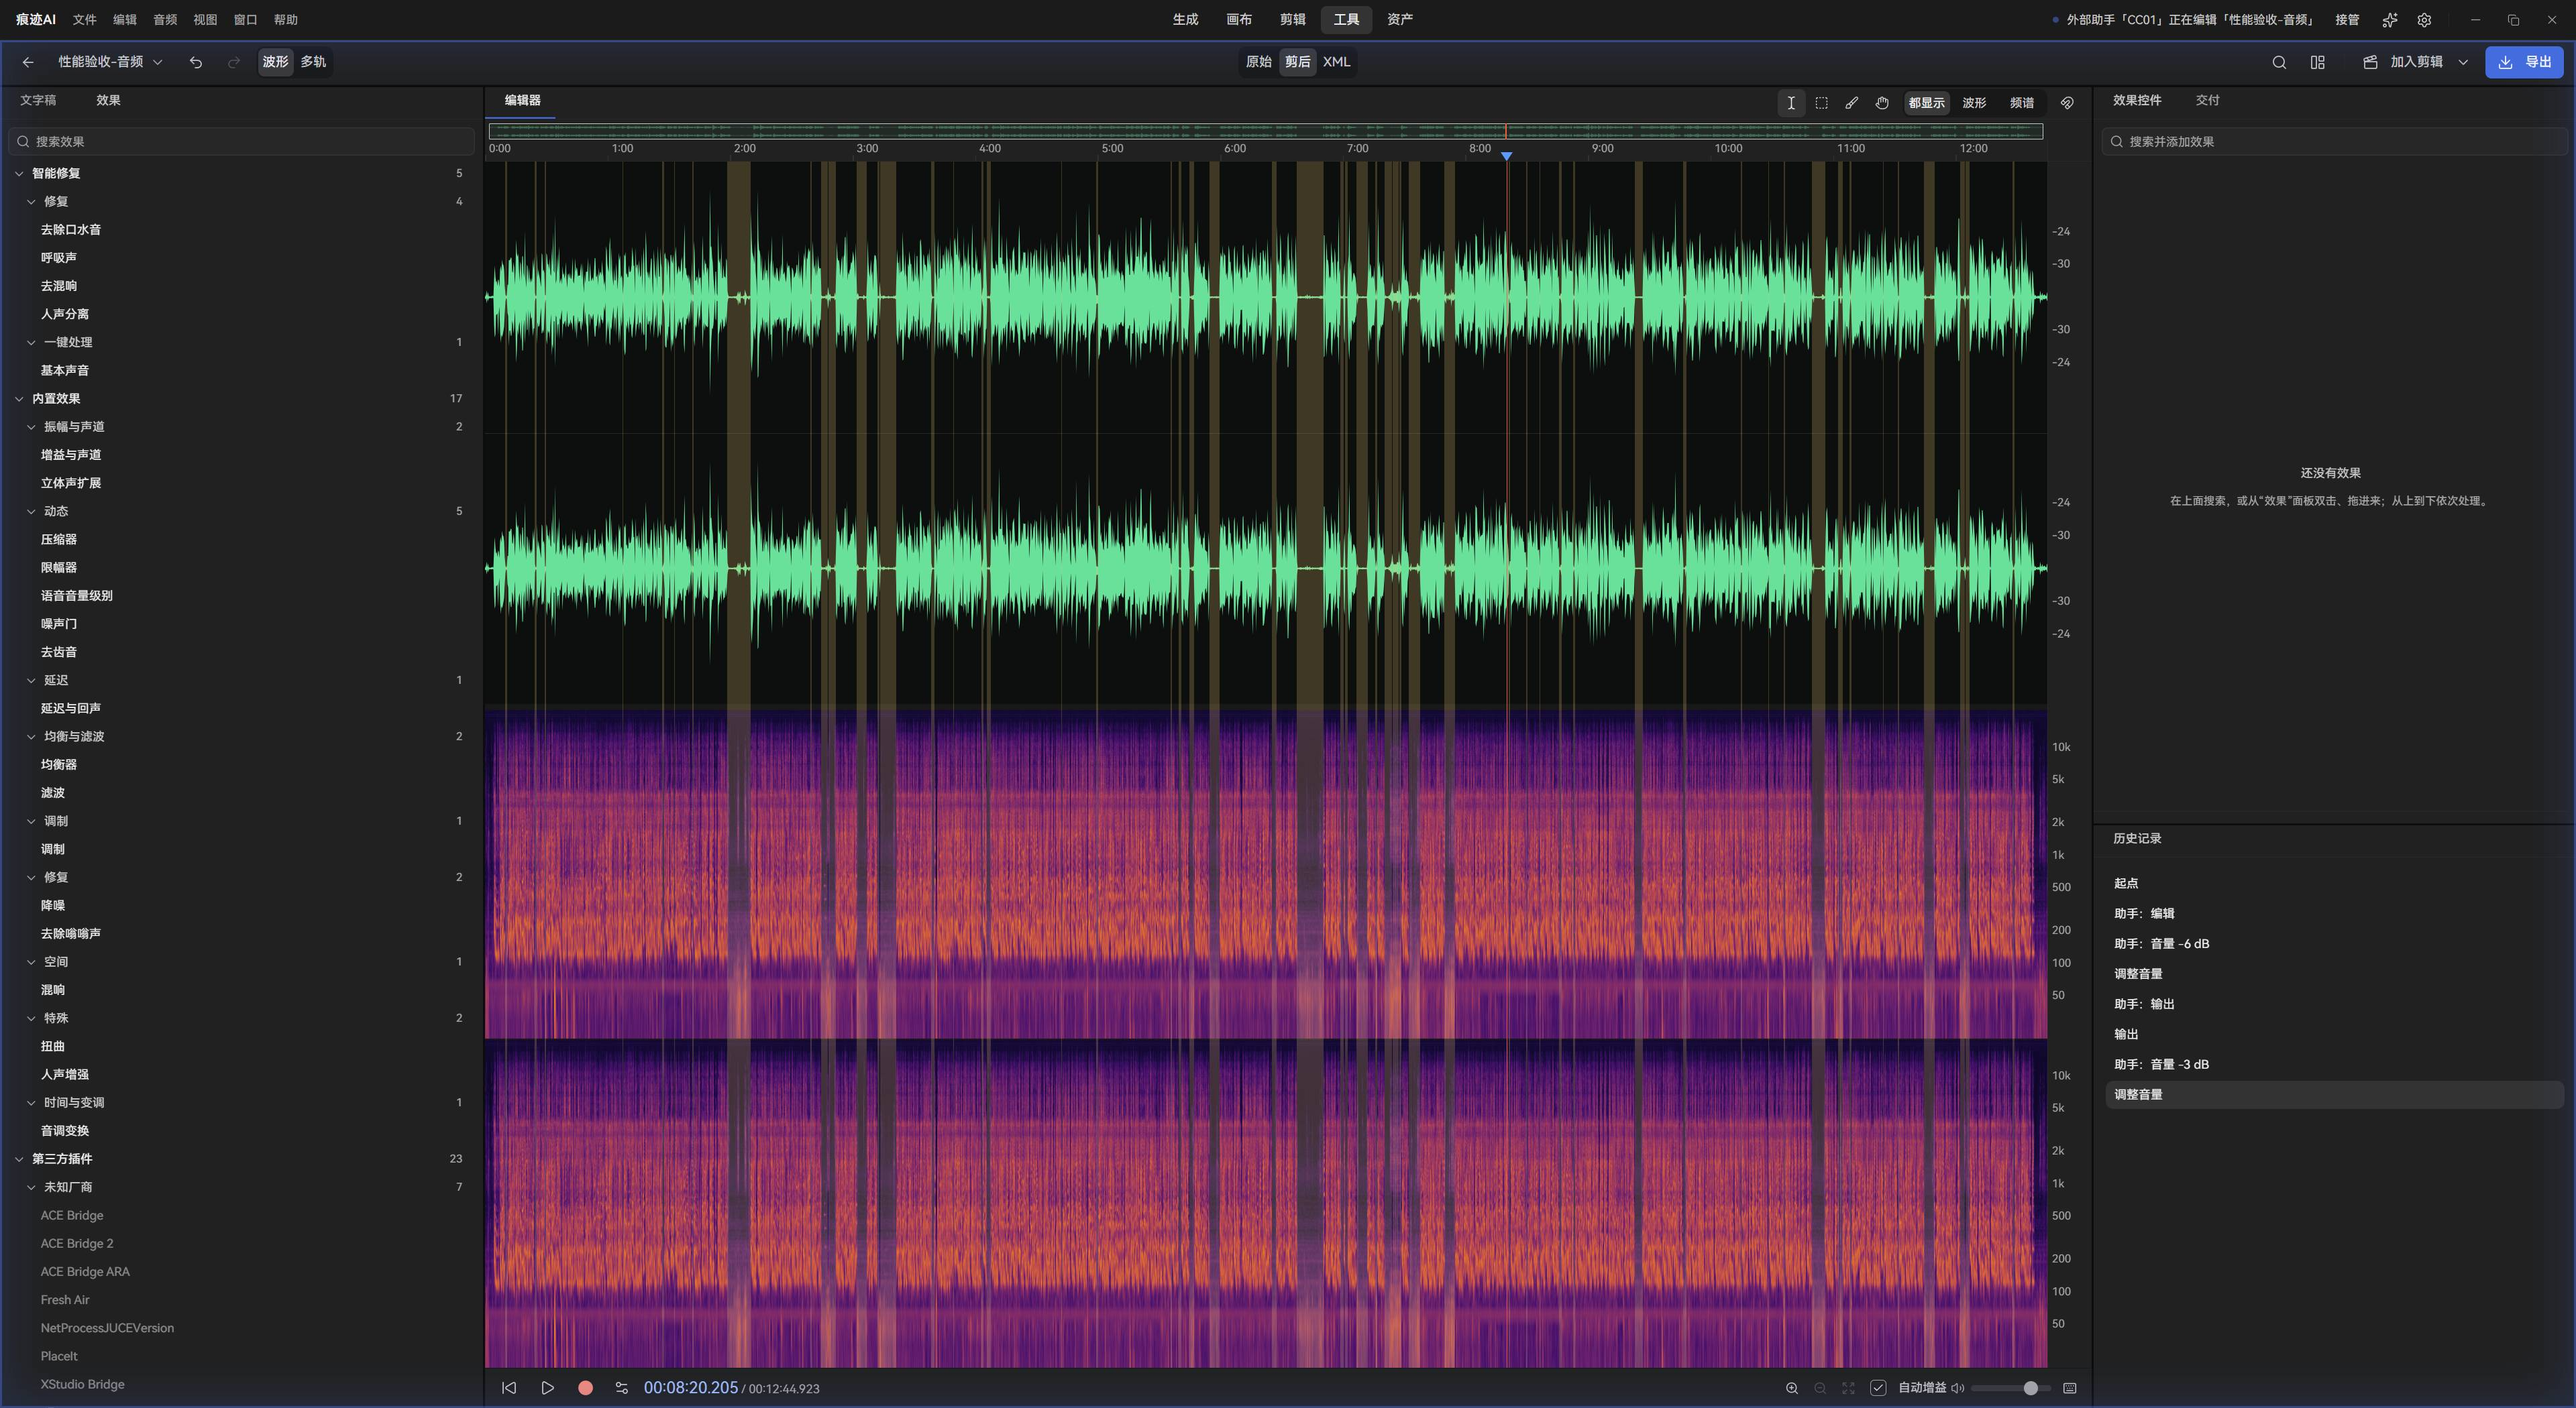
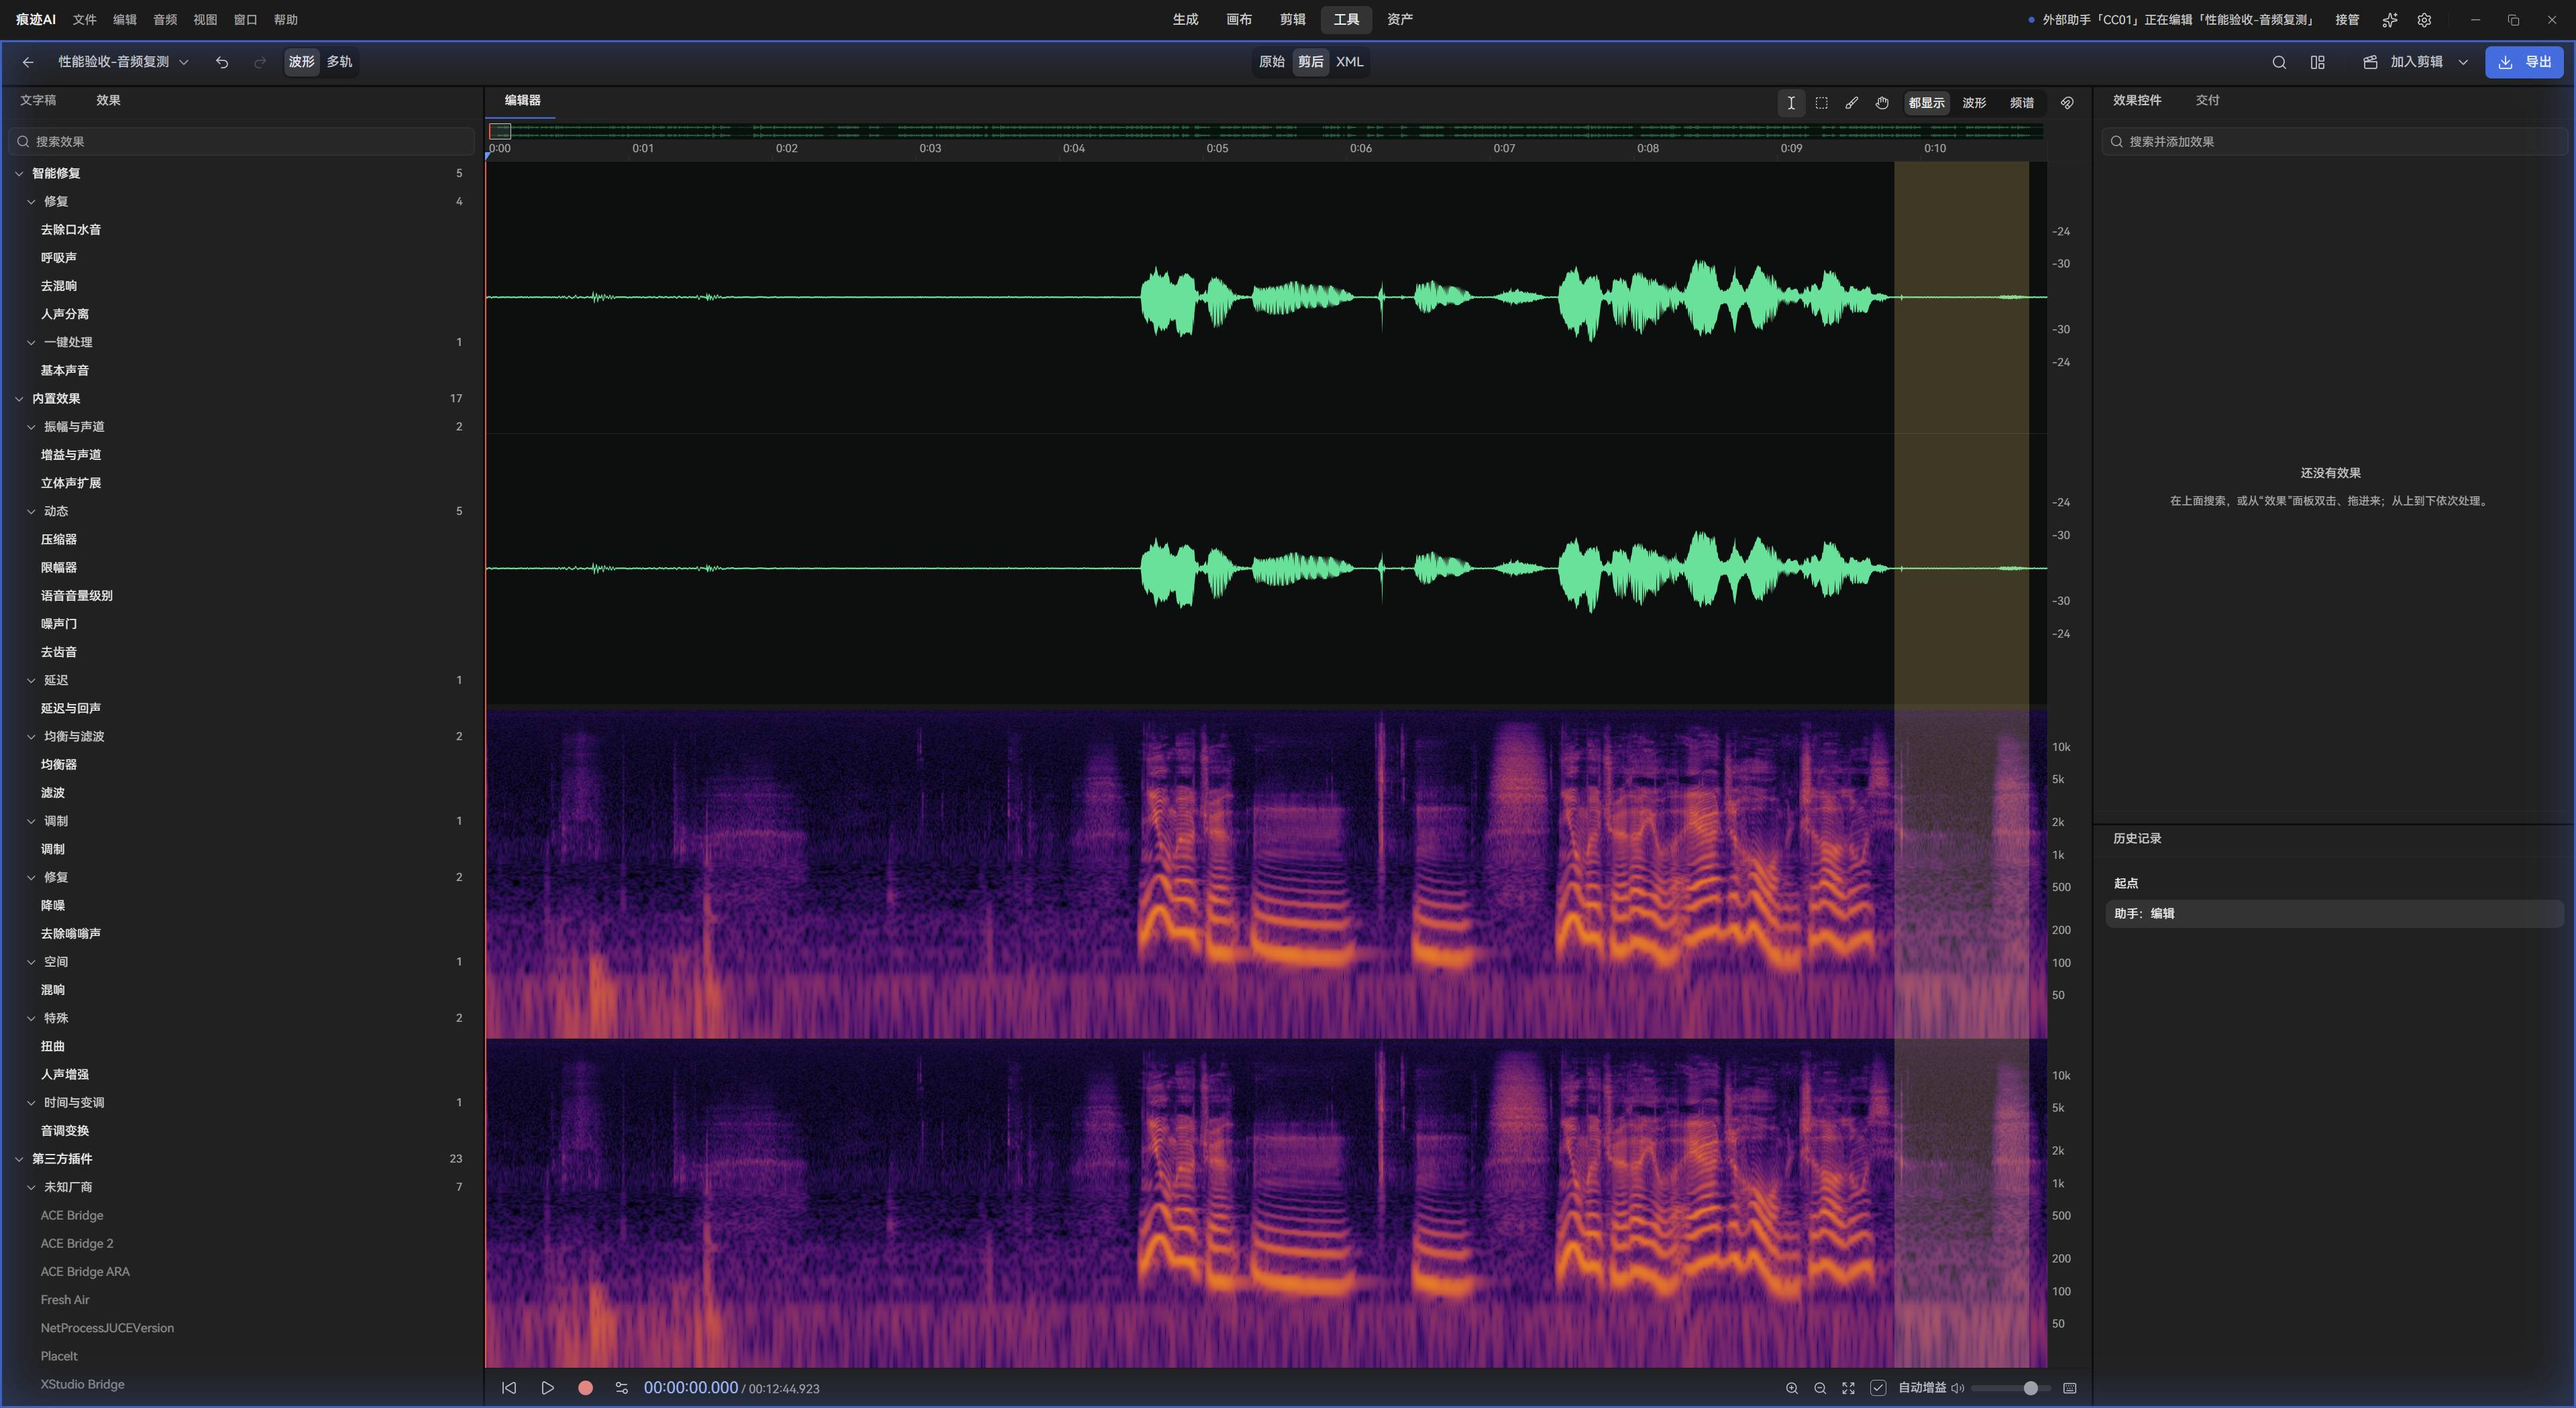
docs(perf): 第二轮真实素材验收的复测结果与遗留清单
4 轨 4K 原片两次实测 38 与 25 帧/秒，未达到比较平滑；最慢的一步是画面交接
而不是解码。音频刚导入误报没有素材、渲染层日志停写两项复测通过。

diff --git a/tickets/45-全局性能/plan.md b/tickets/45-全局性能/plan.md
@@ -36,9 +36,21 @@
 - 音频 B5 转写上传格式：验证要真实付费转写对比，等用户同意。
 - 剪辑“导入时默认自动建代理”：会占磁盘，商业软件默认也不自动建，保持默认关，只把生成做快、超并发排队。
 
-# 进度（主会话维护，2026-11-12 晚）
-- 已提交并推送（14 项）：图片 GPU 预览不退回 CPU（07b2510db）、W1-C 画布与通用、W1-A 图片预算、W1-D 音频上限与缓存、W2-D 音频试听与编辑开销、W1-B 剪辑解码预算、W2-C 首帧/字体/会话复用、W2-E 账本复核、W3-B 代理与缩略帧硬解、W2-B 剪辑 GPU 预算、W3-A 音频增量重算、窗口自恢复（界面进程退出后自动重载）、W2-A 图片 GPU 韧性与预热、W3-C 导出流水线。
-- 实施中：W3-D 音频指纹与导入、补录拼接（持久格式，提交前必审）；W3-E 多机位视图。
-- 已做的真实窗口实测：启动时账本核对 0 次读取、字体扫描 1 次；剪辑打开首帧 6.9s（原记录 15.8s）、播放 178 帧 0 丢帧；图片点开到首帧 0.46–0.72s（原 1.4–1.9s）、带调色层输入到呈现 2–6ms；1080p30 600 帧导出 14.4s、拷贝 16ms、成片 ffprobe 核对无误。
-- 未做的真实窗口验收：各 result 文件里“需主会话验证”的其余步骤——一小时音频素材（增量重算、试听首块、频谱续算）、超大图拼贴与 40 条字幕同屏、8 轨 4K 加多机位、代理开启后的拖动、4K60 导出前后对比、HEVC 导出、画布大工程拉远。
+# 进度（主会话维护，2026-11-13 凌晨）
+- 已提交并推送：图片 GPU 预览不退回 CPU（07b2510db）、W1-C 画布与通用、W1-A 图片预算、W1-D 音频上限与缓存、W2-D 音频试听与编辑开销、W1-B 剪辑解码预算、W2-C 首帧/字体/会话复用、W2-E 账本复核、W3-B 代理与缩略帧硬解、W2-B 剪辑 GPU 预算、W3-A 音频增量重算、窗口自恢复、W2-A 图片 GPU 韧性与预热、W3-C 导出流水线、W3-E 多机位单会话网格、导出弹窗、W3-D 音频指纹与导入（.hjaud 最低可读版本 8）、W4-A 多轨 4K 跟不上时只解参考帧与停放释放显存与 HEVC 色彩标记、渲染层日志桥不再被一条事件堵死、音频刚导入时误报没有素材。
+- 真实窗口实测：见 验收-剪辑.md 与 验收-第二轮.md。要点：图片点开到首帧 0.46–0.72s；剪辑打开首帧 2.4–6.9s；4K59.94 导出 899 帧约 51s；1 轨 4K 满帧，4 轨 4K 38fps、丢帧 35%（W4-A 沿用画面修正前），多机位 4 格 58fps（3 路走代理）；音频 765 秒 WAV 导入 1.2s 可播、局部改动只重算 0.26%、试听取块 0–3ms。
+- 用户已定的范围：多机位与多轨只保证 4 路比较平滑，不再深挖；超过 4 路靠代理。
+
+# 以后再做（本轮发现、未处理）
+- **4 轨 4K 原片未达到“比较平滑”**：两次实测 38fps（丢帧 35%）与 25fps（丢帧 56%），波动大；1 轨满帧。最慢的一步两次都是 pictureCopy（把解出的画面交给合成，p50 22–32ms、p95 171–264ms，1 轨时 0.2ms），不是解码本身，所以“只解参考帧”在 4 轨时几乎没有触发（近似帧 0–11）。下一步该做的是按画面实际显示大小解码或交接缩小后的画面（每格只占四分之一画面却按 4K 交接），并查清 pictureCopy 在多路时为什么排队。多机位 4 格实测 58fps，但其中 3 路走的是代理。
+- 多于 4 路 4K：自动建代理或按画面大小降分辨率解码（硬解只够约 3.5 路 4K60 逐帧）。
+- 沿用事件走控制通道，可能先于前一项的帧到达而把在途帧判为缺失、多走一次单帧读取（审查推断，未实测）。
+- 开发诊断把“沿用”记作缺帧（videoEditNativeDecodeDiagnostics）。
+- 音频：局部改音量后波形金字塔整段重算（约 1.5s，渲染与频谱已是局部）；导入时同一素材的波形算了两遍。初步判断：导入时的原始波形没有留第 1 级摘要（素材不在来历记录里），所以第一次改动找不到可派生的上一版，只有第二次改动起才是局部。
+- 音频：整段频谱计算期间切换页面被推迟约 3.3 秒；频谱“切走再切回续算”未验证；补录拼接需录音设备，未测。
+- 口播文档在编辑器后台占用时删不掉，close_application_surface 又报“目标页面当前未打开”，只能在界面点“接管”再返回列表后删除。
+- 撤销回执在关轨后报修订号冲突（没有其他写入时修订号自己涨了 3）。
+- 新建多机位剪辑后自动预渲染立即跑满 4K 约 18 秒。
+- 渲染层日志停写那一次的具体触发事件未查明（现已不会堵死，日志里会留下被拒事件名与原因）。
+- 未做的窗口验收：超大图拼贴与 40 条字幕同屏、代理开启后的拖动、画布大工程拉远、多机位切机位与改面板宽度。
 - 暂不做：媒体回收（另一会话在做）、修 CI（另一会话在做）、转写上传格式（需付费验证）、导入时默认自动建代理、P8 记住读不了的旧文档。

diff --git a/tickets/45-全局性能/验收-第二轮.md b/tickets/45-全局性能/验收-第二轮.md
@@ -140,3 +140,39 @@
 - 多机位“4 路 4K 原片”：3 路走了已有代理，没有关掉代理重测（避免再跑一次 4K 重负载）。
 - 节目侧实时解码：节目播放命中自动预渲染缓存，没有关掉预渲染重测。
 - 渲染层日志不落盘的原因：未查。
+
+# 复测（15:52–15:55，开发版由总调度重启，新解码服务）
+
+## 1. A 的 4 轨部分（重做一次）
+做法与 A 相同：打开“多轨4K”，关视频 5–12 轨；打开后日志里没有 `render_cache` 事件（没有自动预渲染）；15:53:09 从第 4 帧播放 10 秒（脚本 `play10.cjs`，TAG=r4）。测完写回 12 条轨全部启用（undoRef 因修订号 9→12 返回 CONFLICT，改为直接写 `enabled:true`），切回工具首页。
+
+`video_edit.playback.stats`（reason=stopped）：
+
+| 字段 | 复测 | 第一次（A） |
+|---|---|---|
+| expectedFrames | 583 | 564 |
+| presentedFrames | 257 | 369 |
+| droppedFrames / droppedRatio | 326 / 0.559 | 195 / 0.346 |
+| maxConsecutiveDropped | 14 | 9 |
+| durationMs | 10239 | 9597 |
+| 实际帧率（presented ÷ 时长） | 25.1 fps | 38.4 fps |
+| approximateFrames | 0 | 11 |
+| renderMs p50 / p95 / max | 17.6 / 164.4 / 270.2 | 22.7 / 98.3 / 183.2 |
+| decode p50 / p95 / max | 10.5 / 148.9 / 241.2 | 15.6 / 87.3 / 159.1 |
+| pictureCopy p50 / p95 / max | 22.3 / 264.5 / 320.5 | 32.4 / 171.1 / 443.6 |
+| scheduleWait p95 / max | 39.5 / 428.8 | 0.8 / 97.1 |
+| presentLatencyMs p50 / p95 | 43.6 / 309.9 | 42.8 / 140.4 |
+| play_start.firstFrameMs | 18.9 | 599 |
+| CPU 采样（%） | 14.6 8.2 8.6 5.9 | 7.8 10.9 14.5 6.8 |
+
+- 同次 `video_edit.render_cache.dropped` 3 条，slowestStage 都是 pictureCopy（0–299 帧段 droppedFrames 10/11，p90 31.2ms；299–599 帧段 droppedFrames 13/15 样本，p90 148.5ms，pictureCopy 合计 270ms，decode 147ms）。
+- 打开工程首帧 `video_edit.program.first_frame` elapsedMs 3307，decodeMs 1757。
+- 截图 `r4-play.jpg`（播放 5 秒、时间码 00:00:04:48）：4 格都有画面，姿势各不相同，和第 0 帧（双手交握，`a0-open.jpg`）相比 4 格都已往后走。单张图看不出某一格是否长时间停住或倒退，没有录屏，不能判定。
+- 判定：实际 25.1fps，低于序列帧率的一半（30fps），这次不达标；比第一次（38.4fps）差，丢帧率从 34.6% 升到 55.9%，decode 与 pictureCopy 的 p95 都变大。
+
+## 2. 音频红字复测
+- 15:53:52 `create_document`“性能验收-音频复测”（3ccf9c5c-a963-44a8-a0c1-326396f3e559）→ `open_document` → 15:53:59 `import_audio_edit_source` 导入同一条录音。
+- 导入后每 2 秒截图共 6 张（`r2-import-00..05.jpg`，15:53:58–15:54:09）与之后检查：页面文字里没有“还没有导入音频或视频”，导出、加入剪辑按钮 `disabled=false`，导出按钮为蓝色可用（`r2-import-01.jpg`）。→ 已修好。
+- 事件：probe.completed（headerMs 91.7）、transcode.completed 518ms、`preview.source.completed` 15:54:00.457（距 probe.start 1.17 秒）；波形两次 `pyramid.cache_hit`（disk / memory，同一素材命中缓存）；导入时首块仍有一次 `audio_edit.preview.chunk.slow` 268ms（fallback true）。
+- 渲染层日志落盘：日志文件里有本次的 `mcp.write.start/completed`、`navigation.surface.open.*`、`video_edit.program.first_frame`、`video_edit.playback.stats` 等渲染层事件，时间连续。→ 正常写入。
+- 删除：音频编辑工具在后台仍持有这份文档，第一次 `remove_items` 返回“正在编辑，请先关闭后再移到回收站”；`close_application_surface(tool.audio_edit)` 返回“目标页面当前未打开”。在界面里点“接管”、再点左上返回到文档列表后，15:55:17 `remove_items` 成功（documents.document 删除，有 undoRef）。最后切回工具首页。
